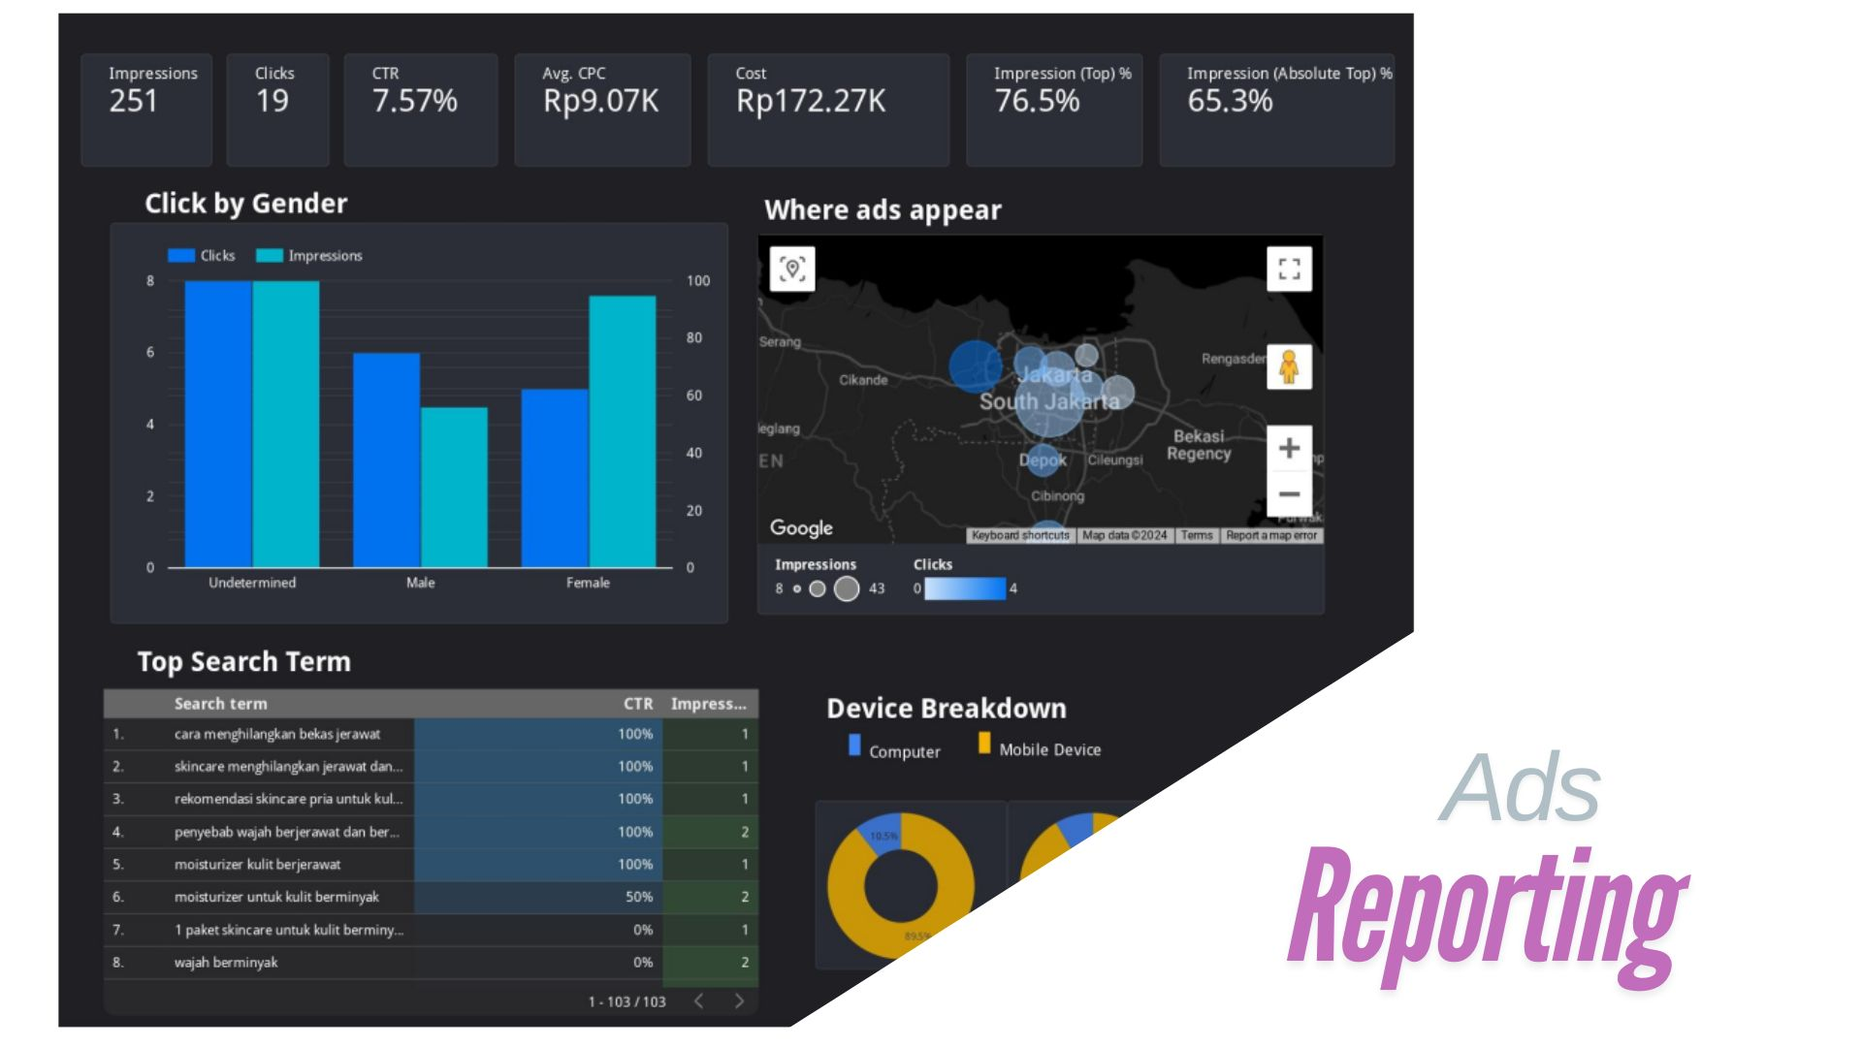
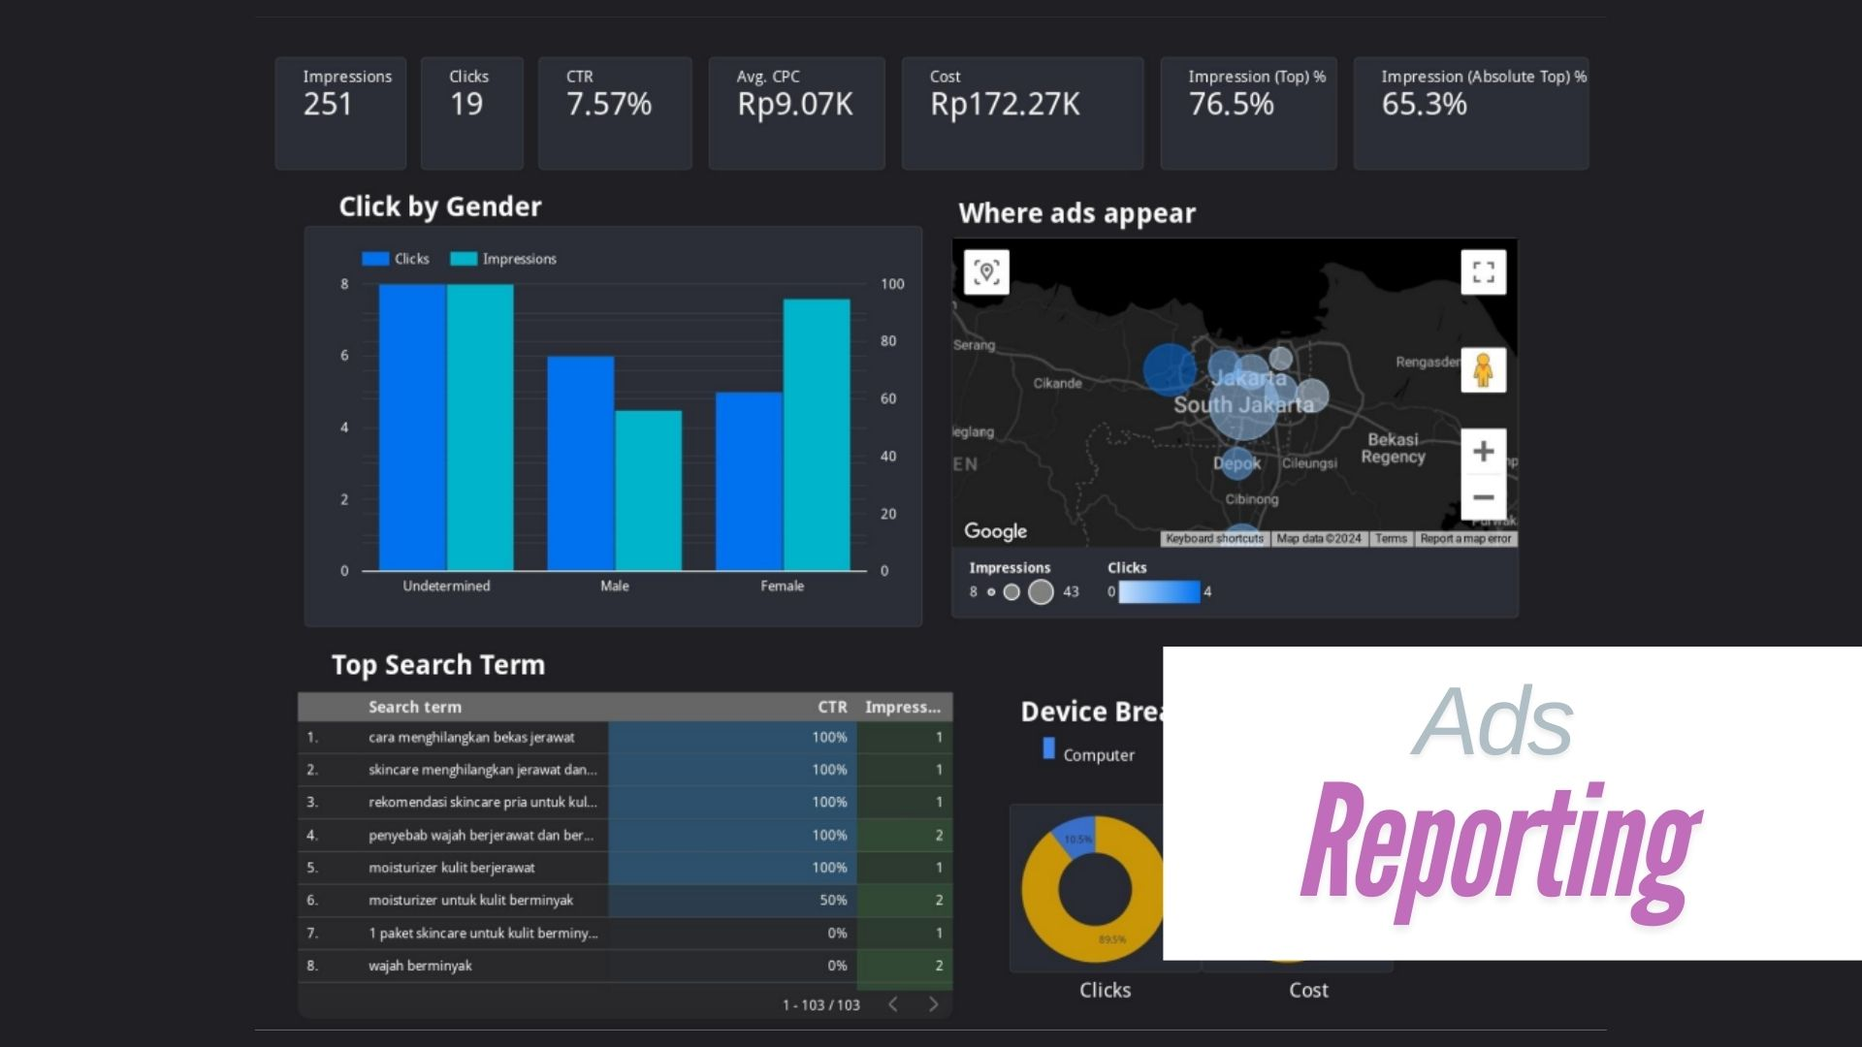
UI update

diff --git a/index.html b/index.html
@@ -14,8 +14,9 @@
     <link rel="stylesheet" href="app.css" />
     <script src="https://cdnjs.cloudflare.com/ajax/libs/gsap/3.11.1/gsap.min.js"></script>
 </head>
-<body>
-    <section style="background: rgb(255,179,193); background: radial-gradient(circle, rgba(255,179,193,1) 10%, rgba(255,240,243,1) 100%); max-height: 100vh;">
+<body class="bg-light">
+    <!-- <section style="background: rgb(255,179,193); background: radial-gradient(circle, rgba(255,179,193,1) 10%, rgba(255,240,243,1) 100%); max-height: 100vh;"> -->
+    <section>
         <div class="container-bg d-flex align-items-center p-5">
             <div class="container pt-5 h-100 d-flex flex-column justify-content-center justify-content-lg-start" style="gap: 50px; ">
                 <div class="px-4 text-center">
@@ -48,8 +49,29 @@
                 </div>
                 <div class="col-lg-8 mx-auto">
                     <div class="row w-100 position-relative">
-                        <img class="animate__animated animate__zoomInUp img-computer" alt="" src="image/Computer 3D.svg" style="z-index: 2; " />
-                        <div class="position-absolute bottom-0" style="z-index: 1">
+                        <div id="carouselExampleInterval" class="carousel slide" data-bs-ride="carousel">
+                            <div class="carousel-inner">
+                                <div class="carousel-item active" data-bs-interval="1500">
+                                <img src="image/portfolio img/Ads Reporting.jpg" class="d-block w-100 shadow p-3 mb-5 bg-body rounded" alt="...">
+                                </div>
+                                <div class="carousel-item" data-bs-interval="1500">
+                                <img src="image/portfolio img/Metriks Analyst.jpg" class="d-block w-100 shadow p-3 mb-5 bg-body rounded" alt="...">
+                                </div>
+                                <div class="carousel-item">
+                                <img src="image/portfolio img/SEO.jpg" class="d-block w-100 shadow p-3 mb-5 bg-body rounded" alt="...">
+                                </div>
+                            </div>
+                            <button class="carousel-control-prev" type="button" data-bs-target="#carouselExampleInterval" data-bs-slide="prev">
+                                <span class="carousel-control-prev-icon" aria-hidden="true"></span>
+                                <span class="visually-hidden">Previous</span>
+                            </button>
+                            <button class="carousel-control-next" type="button" data-bs-target="#carouselExampleInterval" data-bs-slide="next">
+                                <span class="carousel-control-next-icon" aria-hidden="true"></span>
+                                <span class="visually-hidden">Next</span>
+                            </button>
+                            </div>
+                        <!-- <img class="animate__animated animate__zoomInUp img-computer" alt="" src="image/Computer 3D.svg" style="z-index: 2; " /> -->
+                        <!-- <div class="position-absolute bottom-0" style="z-index: 1"> -->
                             <!-- <img class="img-fluid" alt="" src="image/ellipse.svg" /> -->
                         </div>
                     </div>
@@ -58,9 +80,23 @@
         </div>
     </section>
     <!-- section 2 -->
-    <div class="container-fluid px-5 bgcolor-purple position-relative" style="z-index: 999;">
-        <div class="container-bg-2">
-            <div class="row align-items-center" style="min-height: 100vh;">
+     <div class="container-fluid">
+         <div class="row mt-3 d-flex flex-column flex-lg-row">
+             <div class="col border-end p-5 text-white  glow-box align-content-center display-6" style="background-color: #71a3c3;">
+             10+ UI Design Project
+             </div>
+             <div class="col border-end p-5 text-white  glow-box align-content-center display-6" style="background-color: #817bc9;">
+             10+ Website Developt
+             </div>
+             <div class="col border-end p-5 text-white  glow-box align-content-center display-6" style="background-color: #c575bc;">
+             10+ Digital Marketing Project
+             </div>
+         </div>
+
+     </div>
+    <div class="container-fluid bgcolor-purple position-relative" style="z-index: 999;">
+        <!-- <div class="container-bg-2"> -->
+            <!-- <div class="row align-items-center" style="min-height: 100vh;">
                 <div class="col-md-6 text-center animate__animated animate__backInLeft">
                     <img src="image/Robote Hi.svg" alt="" class="img-fluid animated-img img-bounce animate__backInLeft" height="300em">
                 </div>
@@ -83,15 +119,10 @@
                               10+ Digital Marketing Project
                             </div>
                         </div>
-                        <!-- <div class="row mt-3 d-flex flex-column d-sm-none">
-                                <div class="py-2 col border-bottom">10+ UI Design Project</div>
-                                <div class="py-2 col border-bottom">10+ Website Developt</div>
-                                <div class="py-2 col">10+ Digital Marketing Project</div>
-                        </div> -->
                     </div>
                 </div>
-            </div>
-        </div>
+            </div> -->
+        <!-- </div> -->
     </div>
     <!-- section 3 -->
     <div class="container-fluid bgcolor-lilac position-relative">
@@ -111,15 +142,12 @@
                         </svg>
                         Bali
                     </h5>
-                    <div class="fs-6">
+                    <div class="fs-5">
                         With nearly 3 years of experience as a UI/UX Designer and a
                         background in System Analysis, I've completed 10+ projects and
                         worked with international companies to build websites from the
                         ground up. 
-                        My skills in Figma, XD, HTML, CSS, Laravel, and
-                        MySQL, combined with my experience in Agile Scrum, allow me to
-                        create intuitive interfaces and seamless user experiences. I'm
-                        currently expanding my knowledge in Digital Marketing to
+                        I'm currently expanding my knowledge in Digital Marketing to
                         enhance the relevance of my work. I aim to be a reliable team
                         member, empathetic to user needs, and contribute to creating
                         impactful solutions.
@@ -127,8 +155,8 @@
                     <div class="row px-3 mt-5">
                         <!-- edu -->
                          <h4>My Education Path</h4>
-                         <p class=" fs-6 border-end p-3 text-white rounded glow-box" style="background-color: #b43e8f;">Bachelor of Information System in Primakara University</p>
-                         <p class=" fs-6 border-end p-3 text-white rounded glow-box" style="background-color: #884ab2;">Bootcamp Digital Marketing in Dibimbing.id for 6 month</p>
+                         <p class=" fs-5 border-end p-3 text-white rounded glow-box" style="background-color: #b43e8f;">Bachelor of Information System in Primakara University</p>
+                         <p class=" fs-5 border-end p-3 text-white rounded glow-box" style="background-color: #884ab2;">Bootcamp Digital Marketing in Dibimbing.id for 6 month</p>
                     </div>
                     <h4 class="mt-5">Find Me Online</h4>
                     <div class="contact-info">
@@ -147,11 +175,11 @@
     </div>
     
     <!-- section 3 -->
-    <div class="container-fluid my-5 text-center">
+    <div class="container-fluid my-5 text-center ">
         <div class="display-6">
             Tools that I use
         </div>
-        <div class="marquee my-5">
+        <div class="marquee my-5 bg-light">
             <div class="marquee-content">
                 <img src="image/logo/2ae173_13d3b6ee867f46f583fb923205de78f9~mv2.webp" alt="">
                 <img src="image/logo/Canva-Logo.png" alt="">
@@ -164,9 +192,134 @@
                 <img src="image/logo/WordPress.com-Logo.wine.png" alt="">
             </div>
         </div>
+        <div class="display-6">
+            My Skill
+        </div>
+        <div class="row">
+            <div class="col-md-8">
+                <img src="image/Digital Marketing.gif" width="90%" alt="">
+            </div>
+            <div class="col text-start d-flex align-items-center">
+                <!-- <p>This is my skill in digital marketing</p> -->
+                <div class="row">
+                    <div class="col">
+                        <div class="row justify-content-center">
+                            <!-- Number 1 -->
+                            <div class="col-12 number-item">
+                                <div class="circle">1</div>
+                                <div class="number-text">Content Creation</div>
+                            </div>
+                            <!-- Number 2 -->
+                            <div class="col-12 number-item">
+                                <div class="circle">2</div>
+                                <div class="number-text">SEO</div>
+                            </div>
+                            <!-- Number 3 -->
+                            <div class="col-12 number-item">
+                                <div class="circle">3</div>
+                                <div class="number-text">SEM / Ads</div>
+                            </div>
+                            <!-- Number 4 -->
+                            <div class="col-12 number-item">
+                                <div class="circle">4</div>
+                                <div class="number-text">Social Media Management</div>
+                            </div>
+                            <!-- Number 5 -->
+                            <div class="col-12 number-item">
+                                <div class="circle">5</div>
+                                <div class="number-text">CRM (Email Marketing, Whatsapp Marketing)</div>
+                            </div>
+                        </div>
+                    </div>
+                </div>
+            </div>
+        </div>
+        <div class="row">
+            <div class="col-md-6  align-content-center">
+                <div class="row">
+                    <div class="col offset-md-3">
+                        <div class="row justify-content-center">
+                            <!-- Number 1 -->
+                            <div class="col-12 number-item ">
+                                <div class="circle">1</div>
+                                <div class="number-text">Wireframing and Prototyping</div>
+                            </div>
+                            <!-- Number 2 -->
+                            <div class="col-12 number-item ">
+                                <div class="circle">2</div>
+                                <div class="number-text">Visual Design</div>
+                            </div>
+                            <!-- Number 3 -->
+                            <div class="col-12 number-item ">
+                                <div class="circle">3</div>
+                                <div class="number-text">Interaction Design</div>
+                            </div>
+                            <!-- Number 4 -->
+                            <div class="col-12 number-item ">
+                                <div class="circle">4</div>
+                                <div class="number-text">Usability Testing</div>
+                            </div>
+                            <!-- Number 5 -->
+                            <div class="col-12 number-item ">
+                                <div class="circle">5</div>
+                                <div class="number-text">Problem-Solving and Empathy</div>
+                            </div>
+                            <!-- Number 6 -->
+                            <div class="col-12 number-item ">
+                                <div class="circle">6</div>
+                                <div class="number-text">Design Systems and Guidelines</div>
+                            </div>
+                            <!-- Number 7 -->
+                            <div class="col-12 number-item ">
+                                <div class="circle">7</div>
+                                <div class="number-text">Responsive Design</div>
+                            </div>
+                        </div>
+                    </div>
+                </div>
+            </div>
+            <div class="col-md-6 text-start d-flex align-items-center justify-content-start">
+                <!-- <p>This is my skill in digital marketing</p> -->
+                <img src="image/UIUX.gif" width="80%" alt="">
+            </div>
+        </div>
+        <div class="row">
+            <div class="col-md-8">
+                <img src="image/Web Develop.gif" width="50%" alt="">
+            </div>
+            <div class="col text-start d-flex align-items-center">
+                <!-- <p>This is my skill in digital marketing</p> -->
+                <div class="row">
+                    <div class="col">
+                        <div class="row justify-content-center">
+                            <!-- Number 1 -->
+                            <div class="col-12 number-item">
+                                <div class="circle">1</div>
+                                <div class="number-text">HTML</div>
+                            </div>
+                            <!-- Number 2 -->
+                            <div class="col-12 number-item">
+                                <div class="circle">2</div>
+                                <div class="number-text">CSS</div>
+                            </div>
+                            <!-- Number 3 -->
+                            <div class="col-12 number-item">
+                                <div class="circle">3</div>
+                                <div class="number-text">Bootstrap</div>
+                            </div>
+                            <!-- Number 4 -->
+                            <div class="col-12 number-item">
+                                <div class="circle">4</div>
+                                <div class="number-text">Laravel</div>
+                            </div>
+                        </div>
+                    </div>
+                </div>
+            </div>
+        </div> 
     </div>
     <!-- section 4 -->
-     <div class="container mt-5 vh-100">
+     <!-- <div class="container mt-5 vh-100">
         <div class="display-6 text-center mb-3">Digital Marketing Portfolio</div>
         <div class="row">
             <div class="col-lg-6 text-justify">
@@ -180,22 +333,24 @@
                     </div>
                 </div>
             </div>
-        </div>
-        <div class="owl-carousel owl-theme">
+        </div> -->
+        <!-- <div class="owl-carousel owl-theme">
             <div class="item"><img src="image/portfolio img/Ads Report.jpg" alt="" width=""></div>
             <div class="item"><img src="image/portfolio img/Metriks Analyst.jpg" alt=""></div>
             <div class="item"><img src="image/portfolio img/SEO.jpg" alt=""></div>
-        </div>
-     </div>
+        </div> -->
+     <!-- </div> -->
      <!-- section 5 -->
     
     <!-- section 5 -->
-    <div class="container vh-100 mb-0 my-5 d-flex align-items-center">
+    <div class="container-fluid vh-100 mb-0 my-5 d-flex align-items-center bgcolor-purple justify-content-center">
         <div class="row flex-column-reverse flex-md-row ">
-            <div class="col-12 col-md-6">
-                <img class="img-fluid" src="image/freepik__background__22445.png" alt="">
+            <div class="col-12">
+                <!-- <img class="img-fluid" src="image/freepik__background__22445.png" alt=""> -->
+                 <div class="display-5 text-center">Digital Marketing Portfolio</div>
+                 <div class="fs-6 text-center">Enjoy my digital marketing portfolios</p>
             </div>
-            <div class="col-12 col-md-6">
+            <div class="col-12  d-flex align-self-center justify-content-center">
                 <div class="display-6">
                     <!-- Digital Portfolio -->
                 </div>
@@ -208,6 +363,7 @@
                         </h2>
                         <div id="collapseOne" class="accordion-collapse collapse show" data-bs-parent="#accordionExample">
                             <div class="accordion-body">
+                                    <p>As a digital marketer, I tried to <strong>create a dummy product from scratch</strong>. The goal was <strong>to raise awareness about the brand</strong>. The strategy involved <strong>clarifying the brand first</strong> <br>—defining what they sell and mapping out the customer journey. After that, we could create content for social media to introduce the brand based on its description.</p>
                                 <ul>
                                     <li>
                                         <a class="text-decoration-none" href="https://drive.google.com/file/d/1ZkCfO7QPKLeS6aerPlWuG-M9yXx3rJSv/view?usp=sharing">Creating User Persona & CJM</a>
@@ -230,6 +386,7 @@
                         </h2>
                         <div id="collapseTwo" class="accordion-collapse collapse" data-bs-parent="#accordionExample">
                             <div class="accordion-body">
+                                <p>After executing the content, we need to <strong>evaluate its performance based on the metrics</strong>. <br>The goal is to <strong>improve and understand how the audience engages with our content</strong>. <br>Using the right analytics strategy, we can identify which content they like or dislike and how many people engage with it.</p>
                                 <li>
                                     <a class="text-decoration-none" href="https://drive.google.com/file/d/1OodefcrqnuWivHJgm06XQuXtMEI_44wX/view?usp=sharing">Tiktok Content Planning & Implementation</a>
                                 </li>
@@ -247,6 +404,9 @@
                         </h2>
                         <div id="collapseThree" class="accordion-collapse collapse" data-bs-parent="#accordionExample">
                             <div class="accordion-body">
+                                <p>
+                                    After managing social media, if the brand needs it, we can also build a website. <br>The goal is to make it easier for people to <strong>consider and engage in conversations</strong> about the brand. <br>To achieve this, I would choose a good website template and include some discounts to attract visitors.
+                                </p>
                                 <li>
                                     <a class="text-decoration-none" href="https://koalaskincare.dibimbingpractice.site">Koala Skincare Website</a>
                                 </li>
@@ -261,6 +421,9 @@
                         </h2>
                         <div id="collapseFour" class="accordion-collapse collapse" data-bs-parent="#accordionExample">
                             <div class="accordion-body">
+                                <p>
+                                    <strong>To optimize the website</strong>, we can start by investing in organic marketing. <br>The goal is to save costs while assessing the quality of our content keywords before launching paid ads. <br>With a good SEO strategy, such as researching effective keywords, identifying negative keywords, <br>and evaluating performance, we can achieve better results.
+                                </p>
                                 <li>
                                     <a class="text-decoration-none" href="https://docs.google.com/spreadsheets/d/1bof-_a6PSIZY_FjEhtpEdMsbuIO94lMJOheWHoXnQfQ/edit?usp=sharing">Keyword Research</a>
                                 </li>
@@ -284,6 +447,7 @@
                         </h2>
                         <div id="collapseFive" class="accordion-collapse collapse" data-bs-parent="#accordionExample">
                             <div class="accordion-body">
+                                <p>Finally, the brand starts running ads to achieve greater impressions. <br>The goal is to gain as many impressions as possible while <strong>maintaining low costs and efficiency</strong>. <br>The strategy I implemented is to use a "Maximize Clicks" bidding approach initially and increase bids for keywords with good performance. <br>Additionally, it's important to regularly update the images to increase impressions further.</p>
                                 <li>
                                     <a class="text-decoration-none" href="https://drive.google.com/file/d/1zzzIWrWKtAUZf3HaaU6dtzmMJNF0OIw0/view?usp=sharing">Set Up Google Ads Account & GA Tracking, Set Up FB Business Manager, FB Ad Account, & Pixel Tracking</a>
                                 </li>
@@ -306,6 +470,7 @@
                             </h2>
                             <div id="collapseSix" class="accordion-collapse collapse" data-bs-parent="#accordionExample">
                                 <div class="accordion-body">
+                                    <p>Here are some of different study case I try to solve</p>
                                     <li>
                                         <a class="text-decoration-none" href="https://drive.google.com/file/d/1zyFoj8INb8gmjl74GZymyGQNKBYurgAK/view?usp=sharing">User Interview Study Case Simulation (Organic Marketing)</a>
                                     </li>

diff --git a/app.css b/app.css
@@ -59,6 +59,26 @@
   color: black;
 }
 
+.circle {
+  width: 50px;
+  height: 50px;
+  background-color: black;
+  color: white;
+  display: flex;
+  align-items: center;
+  justify-content: center;
+  border-radius: 50%;
+}
+.number-item {
+  display: flex;
+  align-items: center;
+  margin: 10px 0;
+}
+.number-text {
+  margin-left: 15px;
+  font-size: 18px;
+  color: #333;
+}
 /* box glow */
 /* Efek 3D dan Glow untuk kotak */
 .glow-box {
